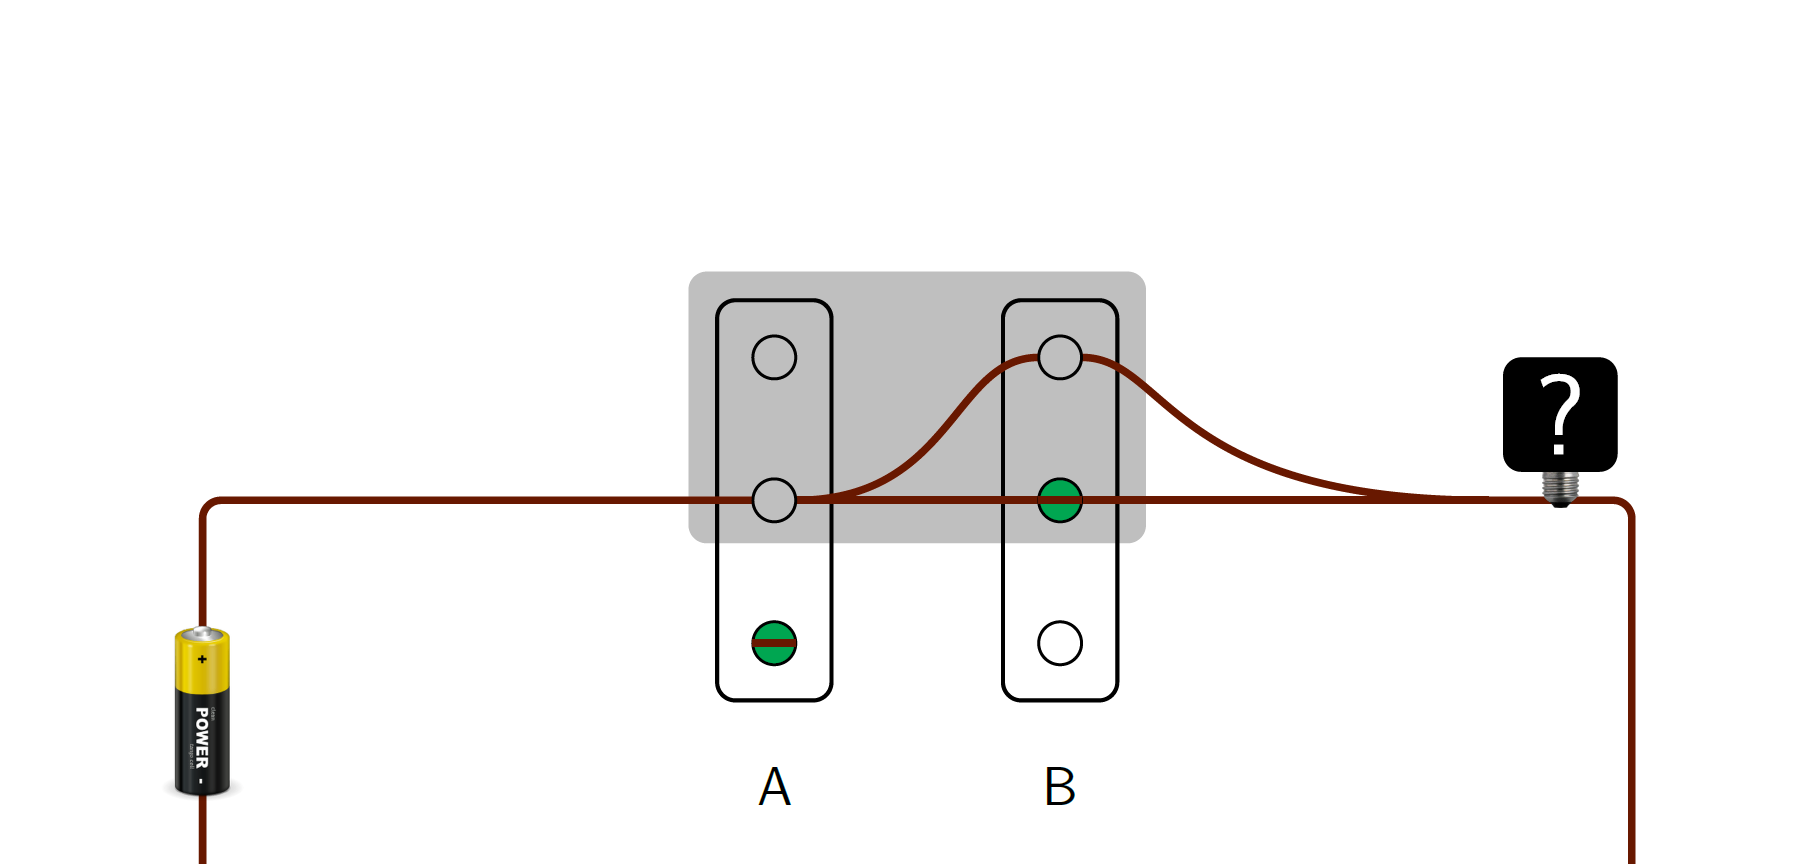
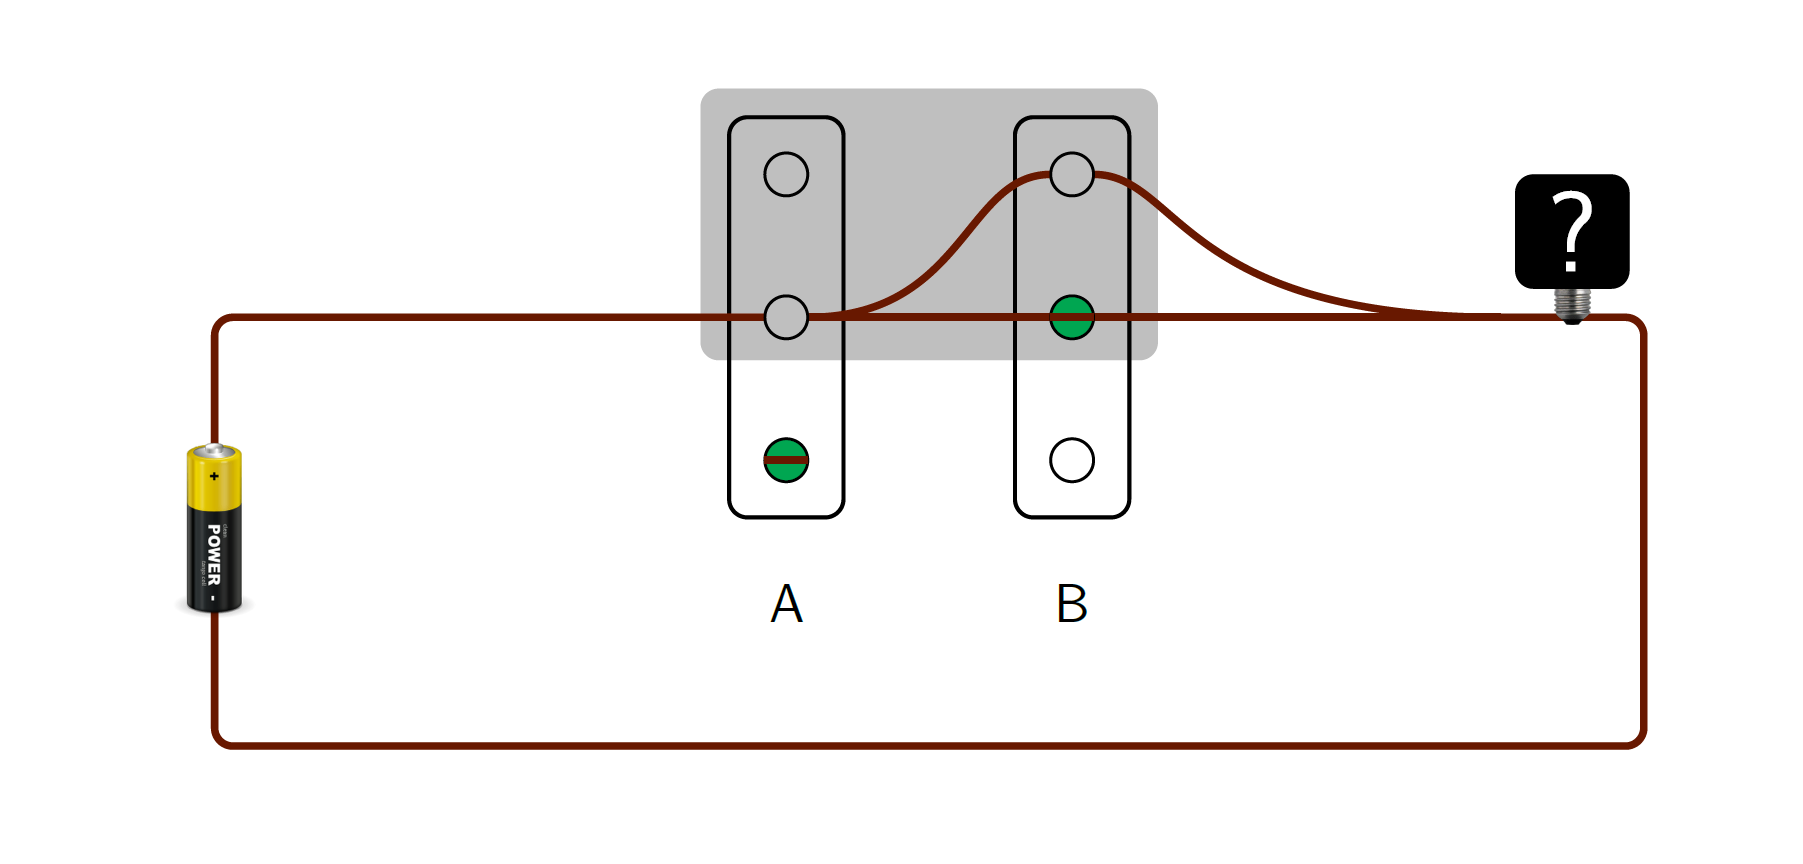
Compleate training switches

Changed region(s): [[0.0933, 0.0938, 0.9333, 1.0], [0.56, 0.9062, 0.5911, 0.9375]]

diff --git a/experiment_code.html b/experiment_code.html
@@ -45,7 +45,7 @@
         // Prelod all images before the experiment begins to avoid waiting time later. 
         var preload = {
             type: jsPsychPreload,
-            images: ['img/md_l.png', 'img/num_test.png', 'img/md_q.png'] };
+            images: ['img/md_l.png', 'img/num_test.png', 'img/md_q.png', 'img/dm_l.png','img/mm_l.png', 'img/ud_l.png'] };
             timeline.push(preload);
 
 
@@ -291,24 +291,58 @@ var switches_train = {
 var switches_train_stimuli = [
 
 { stimulus:` 
- <img src='img/mu_l.png' style='width:90%;max-width:1000px;height:auto;margin-bottom:4%;'></img>
+ <img src='img/mu_q.png' style='width:90%;max-width:1000px;height:auto;margin-bottom:4%;'></img>
  <p style='font-size:100%;'>Is the following sentence true?</p>
  <p style='margin-bottom:4%;font-size:110%;'> <b>The light is off. </b></p>
 
 ` , 
-question_type: 'test', 
-cor_ans: 0, 
-// response_type: 'Yes', 
-// items: 'Big Ben, the London Eye', 
-// scenario: 'tourist office', 
-// condition: 'false', 
+question_type: 'training', 
+cor_ans: 2, 
+switches_pos: 'mu',
+sentence_light: 'off',
+},
 
+{ stimulus:` 
+ <img src='img/dm_q.png' style='width:90%;max-width:1000px;height:auto;margin-bottom:4%;'></img>
+ <p style='font-size:100%;'>Is the following sentence true?</p>
+ <p style='margin-bottom:4%;font-size:110%;'> <b>The light is on. </b></p>
+
+` , 
+question_type: 'training', 
+cor_ans: 2, 
+switches_pos: 'dm',
+sentence_light: 'on',
+},
+
+{ stimulus:` 
+ <img src='img/mm_q.png' style='width:90%;max-width:1000px;height:auto;margin-bottom:4%;'></img>
+ <p style='font-size:100%;'>Is the following sentence true?</p>
+ <p style='margin-bottom:4%;font-size:110%;'> <b>The light is on. </b></p>
+
+` , 
+question_type: 'training', 
+cor_ans: 0, 
+switches_pos: 'mm',
+sentence_light: 'on',
+},
+
+{ stimulus:` 
+ <img src='img/ud_q.png' style='width:90%;max-width:1000px;height:auto;margin-bottom:4%;'></img>
+ <p style='font-size:100%;'>Is the following sentence true?</p>
+ <p style='margin-bottom:4%;font-size:110%;'> <b>The light is off. </b></p>
+
+` , 
+question_type: 'training', 
+cor_ans: 0, 
+switches_pos: 'ud',
+sentence_light: 'off',
 },
 ]
 
 var switches_train_loop = {
     timeline: [switches_train, feedback],
     timeline_variables: switches_train_stimuli,
+    randomize_order: true,
     loop_function: function(data){
         // check if the answer is correct: if it is return false not to repeat again, and if not repeat
         if(data.values()[0].correct){
@@ -390,7 +424,7 @@ var switches_test_procedure = {
     timeline: [switches_test, indeterminate_node],
     // link the variables from the stimuli array with the test trial boilerplate
     timeline_variables: switches_test_stimuli,
-    // randomize_order: true,
+    randomize_order: true,
     };
 
 
